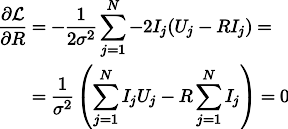
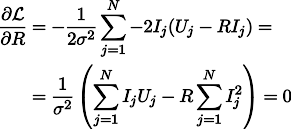
bugfix

diff --git a/least-squares/formulae/f21.tex b/least-squares/formulae/f21.tex
@@ -8,7 +8,7 @@
 
 \begin{align*}
 \frac{\partial\mathcal{L}}{\partial R} &=  -\frac{1}{2\sigma^2}\sum\limits_{j=1}^N -2I_j (U_j- R I_j) = \\
-                                       &= \frac{1}{\sigma^2}\left(\sum\limits_{j=1}^N I_jU_j - R\sum\limits_{j=1}^N I_j\right) = 0
+                                       &= \frac{1}{\sigma^2}\left(\sum\limits_{j=1}^N I_jU_j - R\sum\limits_{j=1}^N I_j^2\right) = 0
 \end{align*}
 
 \end{document}

diff --git a/least-squares/formulae/f22.tex b/least-squares/formulae/f22.tex
@@ -6,7 +6,7 @@
 \begin{document}
 \thispagestyle{empty}
 $$
-R = \frac{\sum\limits_{j=1}^N I_jU_j}{\sum\limits_{j=1}^N I_j}
+R = \frac{\sum\limits_{j=1}^N I_jU_j}{\sum\limits_{j=1}^N I_j^2}
 $$
 
 \end{document}
